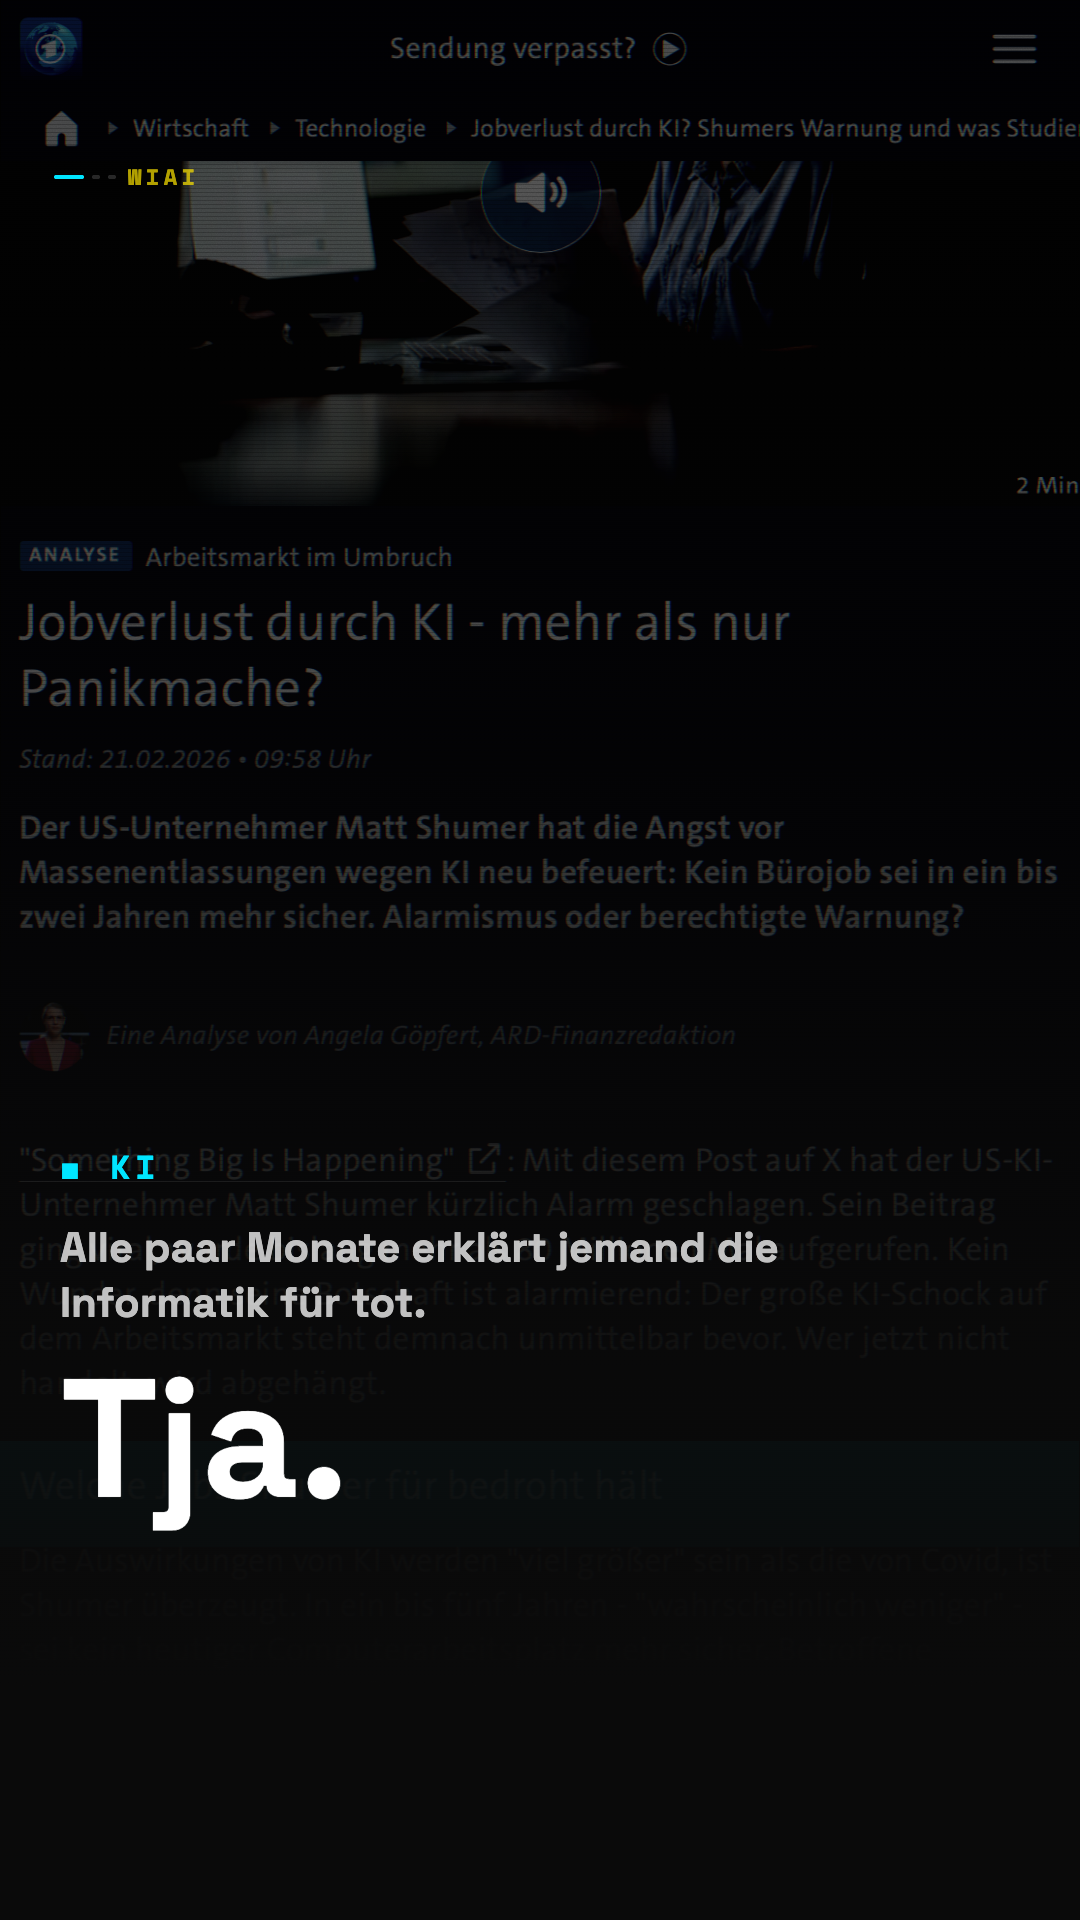
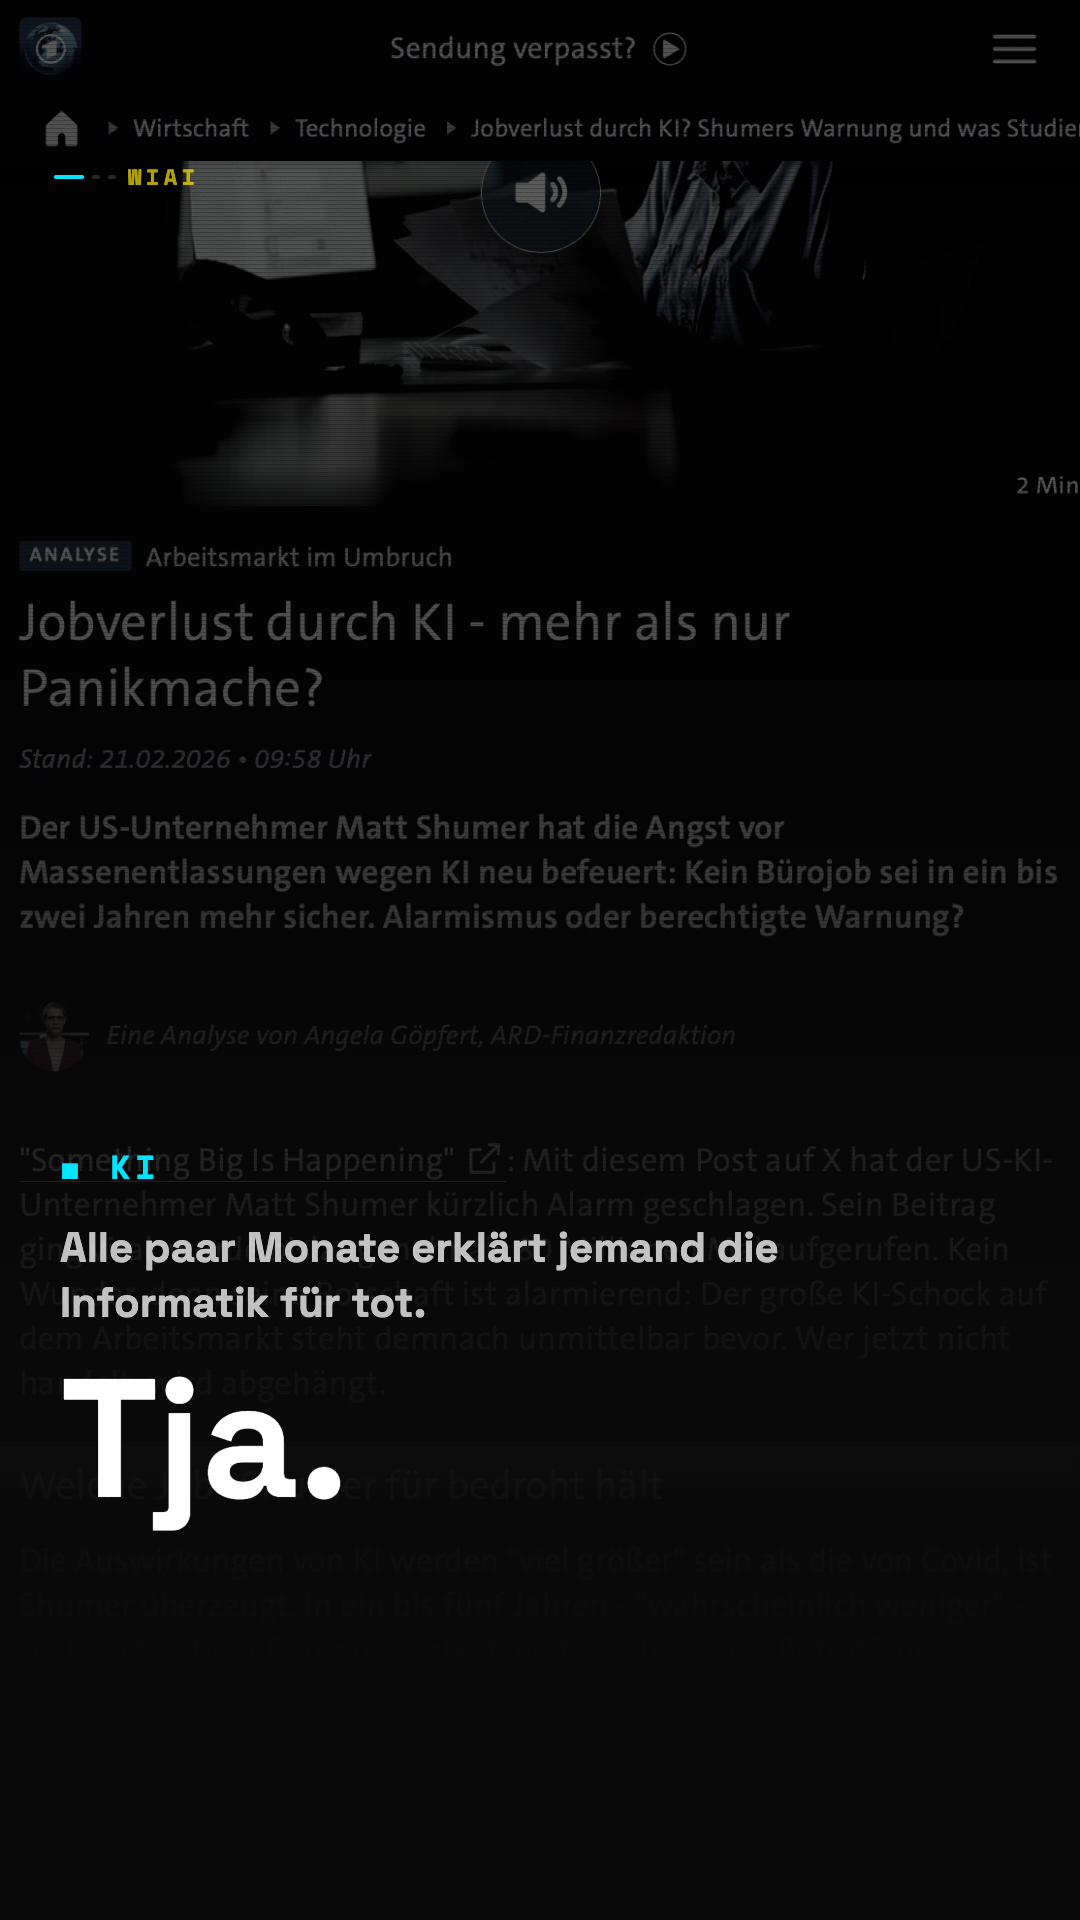
Refine Slide 1 FX: subtler glitches, luminosity scanlines, desaturated bg
- Chroma aberration: amplitude 9→4px, spike 18→6px, threshold 0.88→0.94
- Scanlines: mix-blend-mode luminosity (no color bleeding)
- Glitch bands: rare (0.94), monochrome, luminosity blend, smaller
- Background: saturate(0.7)→saturate(0.25), near-greyscale
- Text timing: all elements appear ~6 frames earlier for more read time

diff --git a/pr-wiai/wiai-social/src/compositions/Newsjacking.tsx b/pr-wiai/wiai-social/src/compositions/Newsjacking.tsx
@@ -19,24 +19,23 @@ function resolveAssetPath(raw: string): string {
 const GlitchBackground: React.FC<{ src: string }> = ({ src }) => {
   const frame = useCurrentFrame();
 
-  // Chromatic aberration — slow organic drift + occasional spike
-  const spikeActive = Math.sin(frame * 11.3) > 0.88;
-  const spike = spikeActive ? 18 : 0;
-  const redDx = Math.round(Math.sin(frame * 0.37) * 9 + Math.sin(frame * 2.1) * 2 + spike);
-  const blueDx = Math.round(-Math.sin(frame * 0.31) * 9 - Math.sin(frame * 1.9) * 2 - spike);
+  // Chromatic aberration — subtle organic drift, small spikes
+  const spikeActive = Math.sin(frame * 11.3) > 0.94;
+  const spike = spikeActive ? 6 : 0;
+  const redDx = Math.round(Math.sin(frame * 0.37) * 4 + Math.sin(frame * 2.1) * 1 + spike);
+  const blueDx = Math.round(-Math.sin(frame * 0.31) * 4 - Math.sin(frame * 1.9) * 1 - spike);
 
   // Film grain seed — changes every frame for animated noise
   const grainSeed = frame % 64;
 
-  // Glitch band — occasional colored horizontal strip
-  const bandActive = Math.sin(frame * 17.3) > 0.84;
+  // Glitch band — rare, subtle
+  const bandActive = Math.sin(frame * 17.3) > 0.94;
   const bandY = Math.abs(Math.sin(frame * 3.3 + 1.2)) * 1400 + 100;
-  const bandH = Math.abs(Math.sin(frame * 7.1)) * 90 + 20;
-  const bandX = Math.sin(frame * 11.1) * 50;
-  const bandIsRed = Math.sin(frame * 2.3) > 0;
+  const bandH = Math.abs(Math.sin(frame * 7.1)) * 40 + 10;
+  const bandX = Math.sin(frame * 11.1) * 20;
 
-  // Scanline jitter — shift scanlines slightly on glitch frames
-  const scanJitter = spikeActive ? Math.sin(frame * 31.7) * 3 : 0;
+  // Scanlines don't jitter — they only shift on true glitch frames
+  const scanJitter = spikeActive ? 1 : 0;
 
   const filterId = `chroma-${frame}`;
   const grainId = `grain-${frame}`;
@@ -94,7 +93,7 @@ const GlitchBackground: React.FC<{ src: string }> = ({ src }) => {
           height: "100%",
           objectFit: "cover",
           objectPosition: "center top",
-          filter: `url(#${filterId}) brightness(0.38) contrast(1.2) saturate(0.7)`,
+          filter: `url(#${filterId}) brightness(0.40) contrast(1.15) saturate(0.25)`,
         }}
       />
 
@@ -111,18 +110,19 @@ const GlitchBackground: React.FC<{ src: string }> = ({ src }) => {
         }}
       />
 
-      {/* Animated scanlines — with jitter on glitch frames */}
+      {/* Scanlines — luminosity only, no color contamination */}
       <div
         style={{
           position: "absolute",
           inset: 0,
           background: scanlineGradient(0.22),
+          mixBlendMode: "luminosity",
           transform: `translateY(${scanJitter}px)`,
           pointerEvents: "none",
         }}
       />
 
-      {/* Glitch band — random colored horizontal strip */}
+      {/* Glitch band — rare, monochrome, subtle */}
       {bandActive && (
         <div
           style={{
@@ -131,10 +131,8 @@ const GlitchBackground: React.FC<{ src: string }> = ({ src }) => {
             right: 0,
             top: bandY,
             height: bandH,
-            background: bandIsRed
-              ? "rgba(255, 40, 40, 0.35)"
-              : "rgba(0, 225, 255, 0.3)",
-            mixBlendMode: "screen",
+            background: "rgba(255,255,255,0.12)",
+            mixBlendMode: "luminosity",
             transform: `translateX(${bandX}px)`,
             pointerEvents: "none",
           }}
@@ -161,10 +159,10 @@ const Act1: React.FC<{ post: Post; showQuote?: boolean }> = ({ post, showQuote =
   const frame = useCurrentFrame();
   const accent = post.accentColor ?? WIAI_YELLOW;
 
-  const imgOpacity = interpolate(frame, [0, 10], [0, 1], { extrapolateRight: "clamp" });
-  const tagOpacity = interpolate(frame, [8, 16], [0, 1], { extrapolateRight: "clamp" });
-  const smallOpacity = interpolate(frame, [18, 26], [0, 1], { extrapolateRight: "clamp" });
-  const bigOpacity = interpolate(frame, [32, 42], [0, 1], { extrapolateRight: "clamp" });
+  const imgOpacity = interpolate(frame, [0, 8], [0, 1], { extrapolateRight: "clamp" });
+  const tagOpacity = interpolate(frame, [6, 12], [0, 1], { extrapolateRight: "clamp" });
+  const smallOpacity = interpolate(frame, [14, 22], [0, 1], { extrapolateRight: "clamp" });
+  const bigOpacity = interpolate(frame, [26, 36], [0, 1], { extrapolateRight: "clamp" });
 
   return (
     <SlideFrame accentColor={accent} currentSlide={1}>
